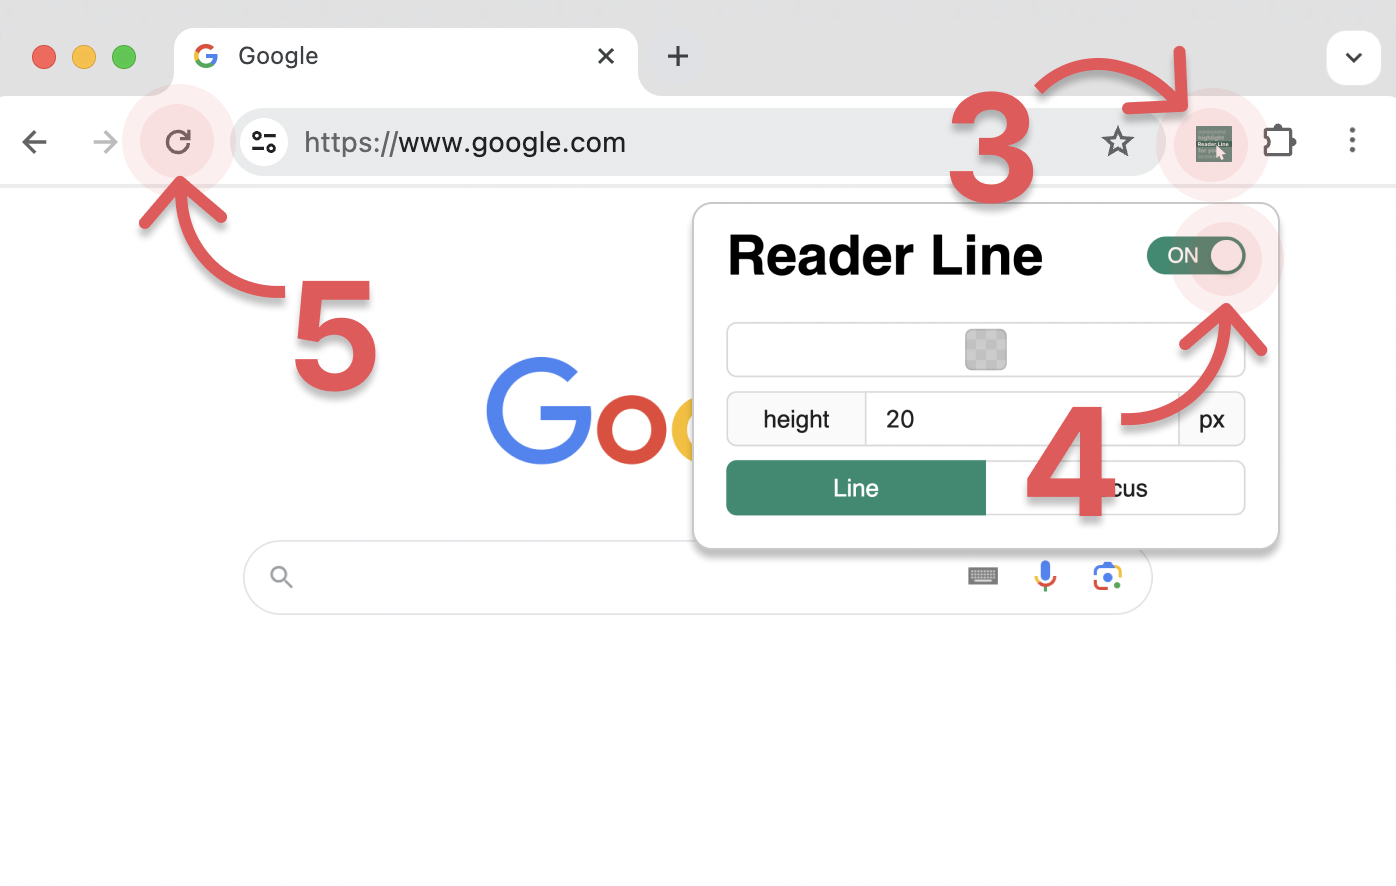
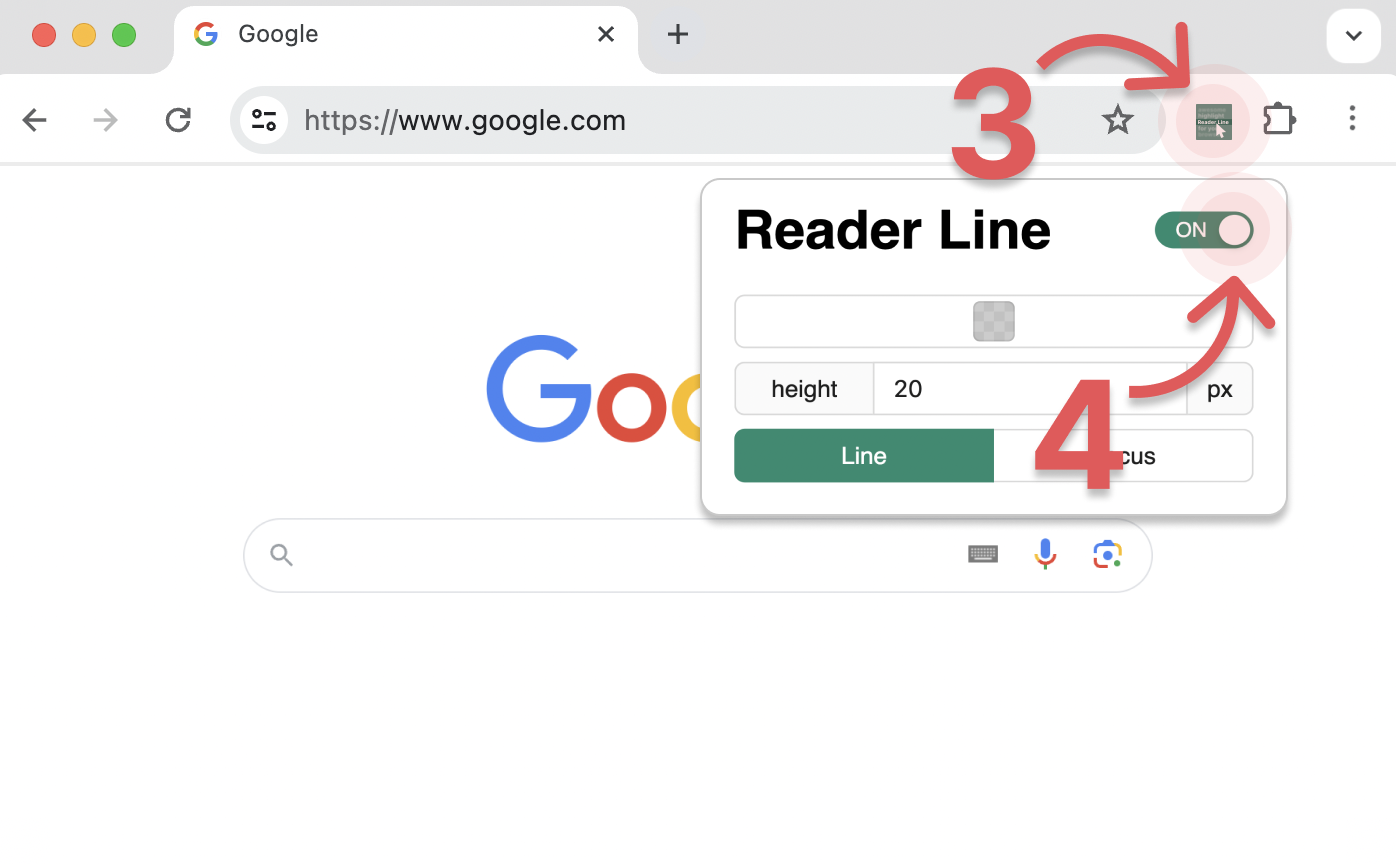
fix: add one more instruction to welcome page

diff --git a/docs/welcome/index.html b/docs/welcome/index.html
@@ -15,6 +15,9 @@
             <h2>2. Click on extension icon to open the Reader Line and turn it on</h2>
             <img src="instruction2.png" />
 
+            <h2>3. To use Reader Line on old open tabs you need to reload them</h2>
+            <img src="instruction3.png" />
+
 
             <div class="tip">
                 <svg xmlns="http://www.w3.org/2000/svg" xmlns:xlink="http://www.w3.org/1999/xlink" xmlns:serif="http://www.serif.com/"
